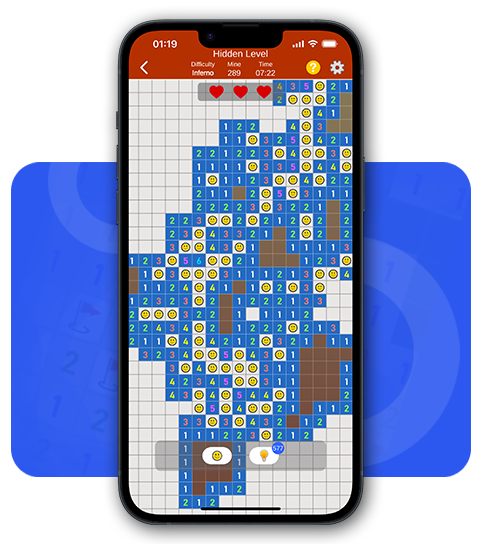
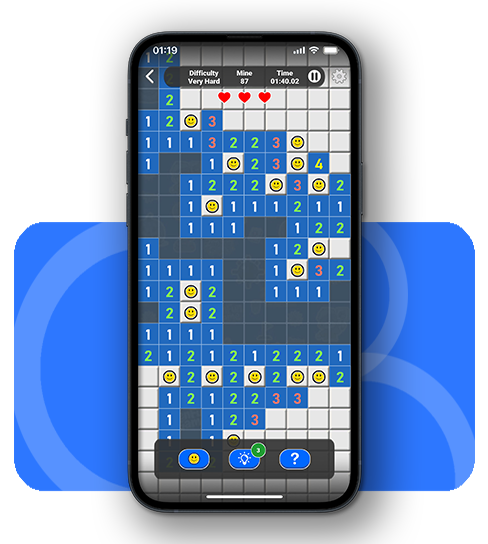
20260816-001

diff --git a/minesweeper_privacy-policy.html b/minesweeper_privacy-policy.html
@@ -180,7 +180,7 @@
 
     <!-- 横幅大图区域 -->
     <div class="banner" style="text-align: center; margin: 30px auto;">
-        <img src="images/sudokutime/poster-1.png" alt="ZenFun Game Banner" style="width: 1920px; height: auto; max-width: 100%;">
+        <img src="images/minesweeper/Banner_image.png" alt="ZenFun Game Banner" style="width: 1920px; height: auto; max-width: 100%;">
     </div>
 
     <!-- 主体内容区 -->
@@ -267,7 +267,7 @@
                             </div>
                             <div class="col-12 col-md-6">
                                 <div class="Banner_image">
-                                    <img class="img-fluid" src="images/sudokutime/poster-302.png" alt="Game Screenshots">
+                                    <img class="img-fluid" src="images/minesweeper/trial-img.png" alt="Game Screenshots">
                                 </div>
                             </div>
                         </div>

diff --git a/minesweeper.html b/minesweeper.html
@@ -455,7 +455,7 @@
                             </div>
                             <div class="col-12 col-md-6">
                                 <div class="Banner_image">
-                                    <img class="img-fluid" src="images/minesweeper/Banner_image.png" alt="Game Screenshots">
+                                    <img class="img-fluid" src="images/minesweeper/trial-img.png" alt="Game Screenshots">
                                 </div>
                             </div>
                         </div>
